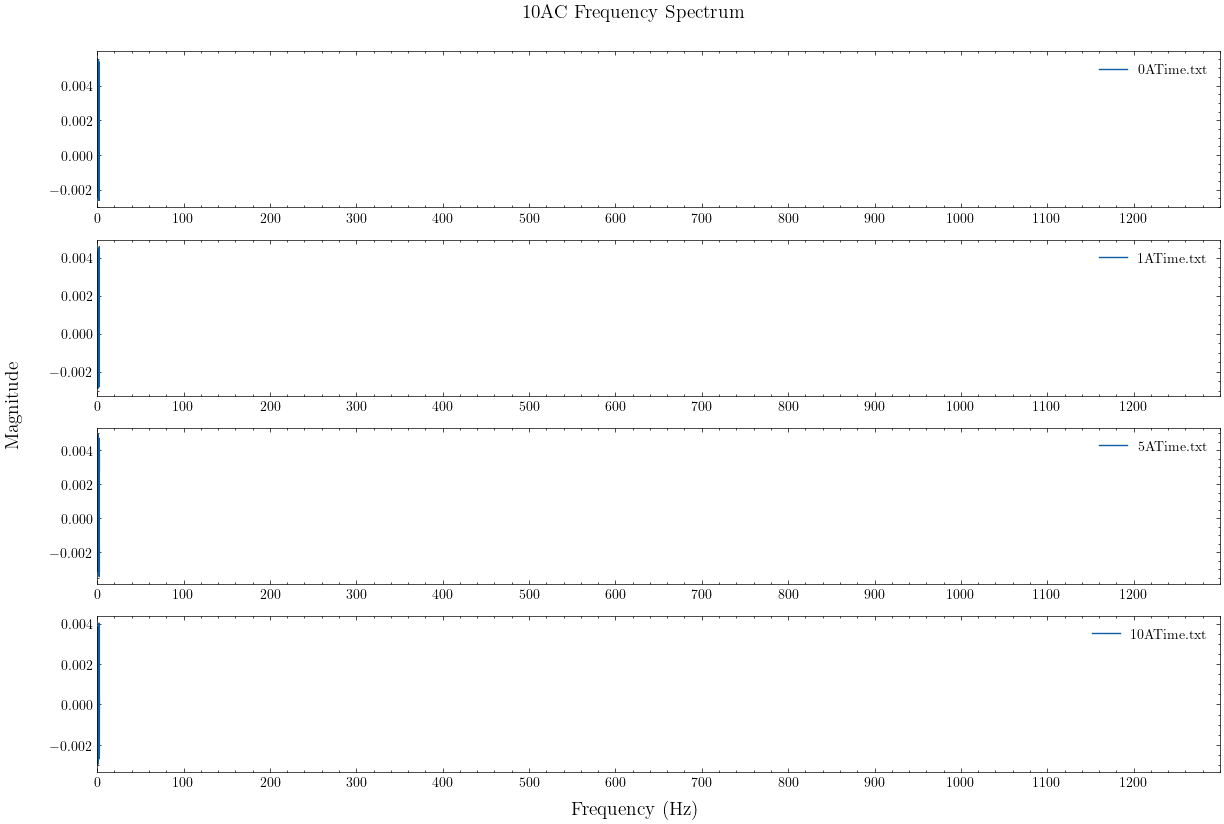
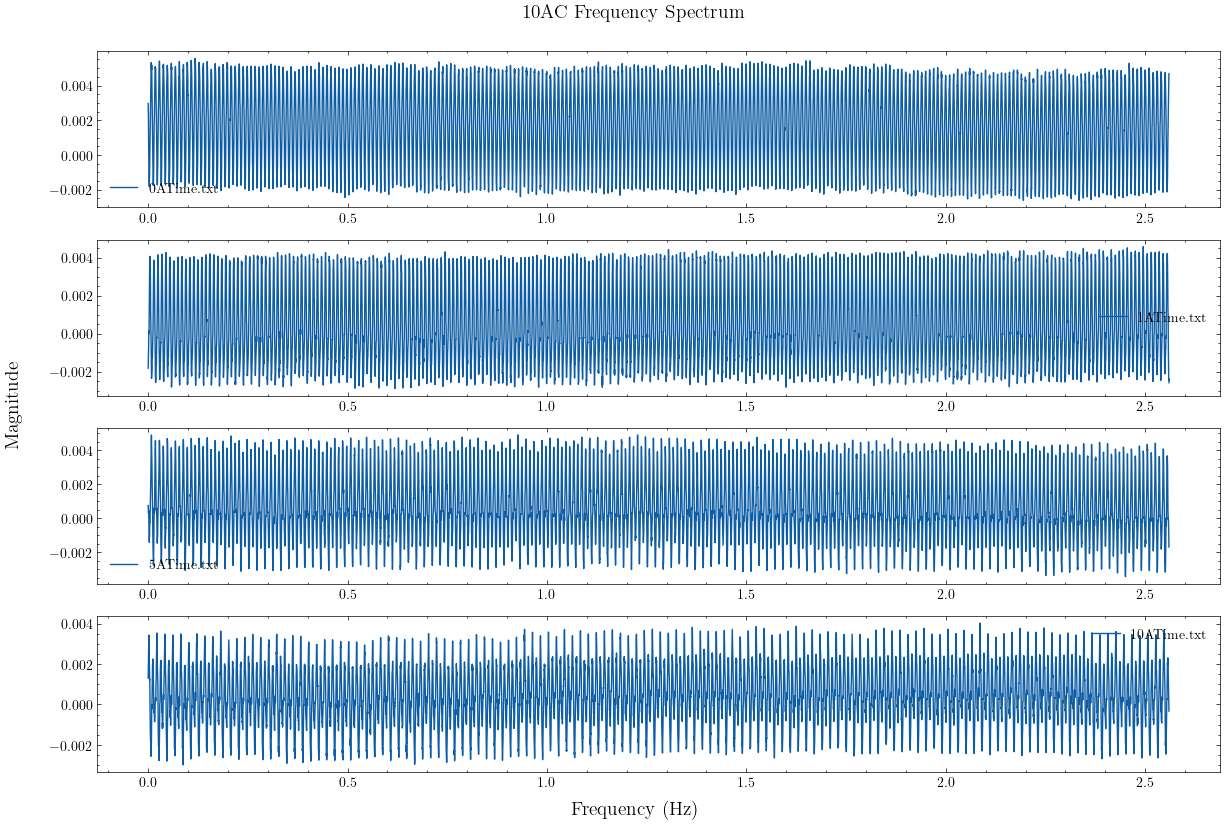
plotting accel time

diff --git a/ProcessData.py b/ProcessData.py
@@ -11,7 +11,7 @@ folder = 'NotShorted'
 # filenameList = ['0AFreq.txt','1AFreq.txt','5AFreq.txt','10AFreq.txt','15AFreq.txt']
 
 subfolderList = ['10AC','50AC','90AC']
-filenameList = ['0AFreq.txt','1AFreq.txt','5AFreq.txt','10AFreq.txt']
+filenameList = ['0ATime.txt','1ATime.txt','5ATime.txt','10ATime.txt']
 
 # subfolderList = ['10AC']
 # filenameList = ['0AFreq.txt','1AFreq.txt','5AFreq.txt','10AFreq.txt']
@@ -48,12 +48,17 @@ for subfolder in subfolderList:
             cols = line.split('\t')
             dataArray = np.vstack([dataArray,cols]) #vertically append
 
-        x = np.array(dataArray[2:,0],dtype= float)
-        y = np.array(dataArray[2:,1], dtype= float)
+        # index = np.where(dataArray[2:,1] == 1)[0] #find index for 1 second
+
+        time = np.array(dataArray[2:,0],dtype= float)
+        index = np.where(time == 0.5)[0] #find index for 1 second
+
+        x = np.array(time[0:index[0]],dtype= float)
+        y = np.array(dataArray[2:index[0]+2,1], dtype= float)
 
         ax[n].plot(x,y,label=filename.removesuffix("Freq.txt"))
-        ax[n].set_xticks(np.arange(0,1300,100))    
-        ax[n].set_xlim(0,1300)
+        # ax[n].set_xticks(np.arange(0,1300,100))    
+        # ax[n].set_xlim(0,1300)
         # ax[n].set_ylim(0,0.015)
 
         # title = filename.removesuffix('Freq.txt') + ' DC'
@@ -72,6 +77,6 @@ for subfolder in subfolderList:
     # Adjust layout to prevent overlap
     plt.tight_layout(rect=[0.1, 0.1, 0.9, 0.9])  # Leave space for master labels
 
-    fig.savefig(os.path.join(resultPath, subfolder + '.png'))
+    fig.savefig(os.path.join(resultPath, subfolder + ' Time' +'.png'))
 
         # newPlot.show()
